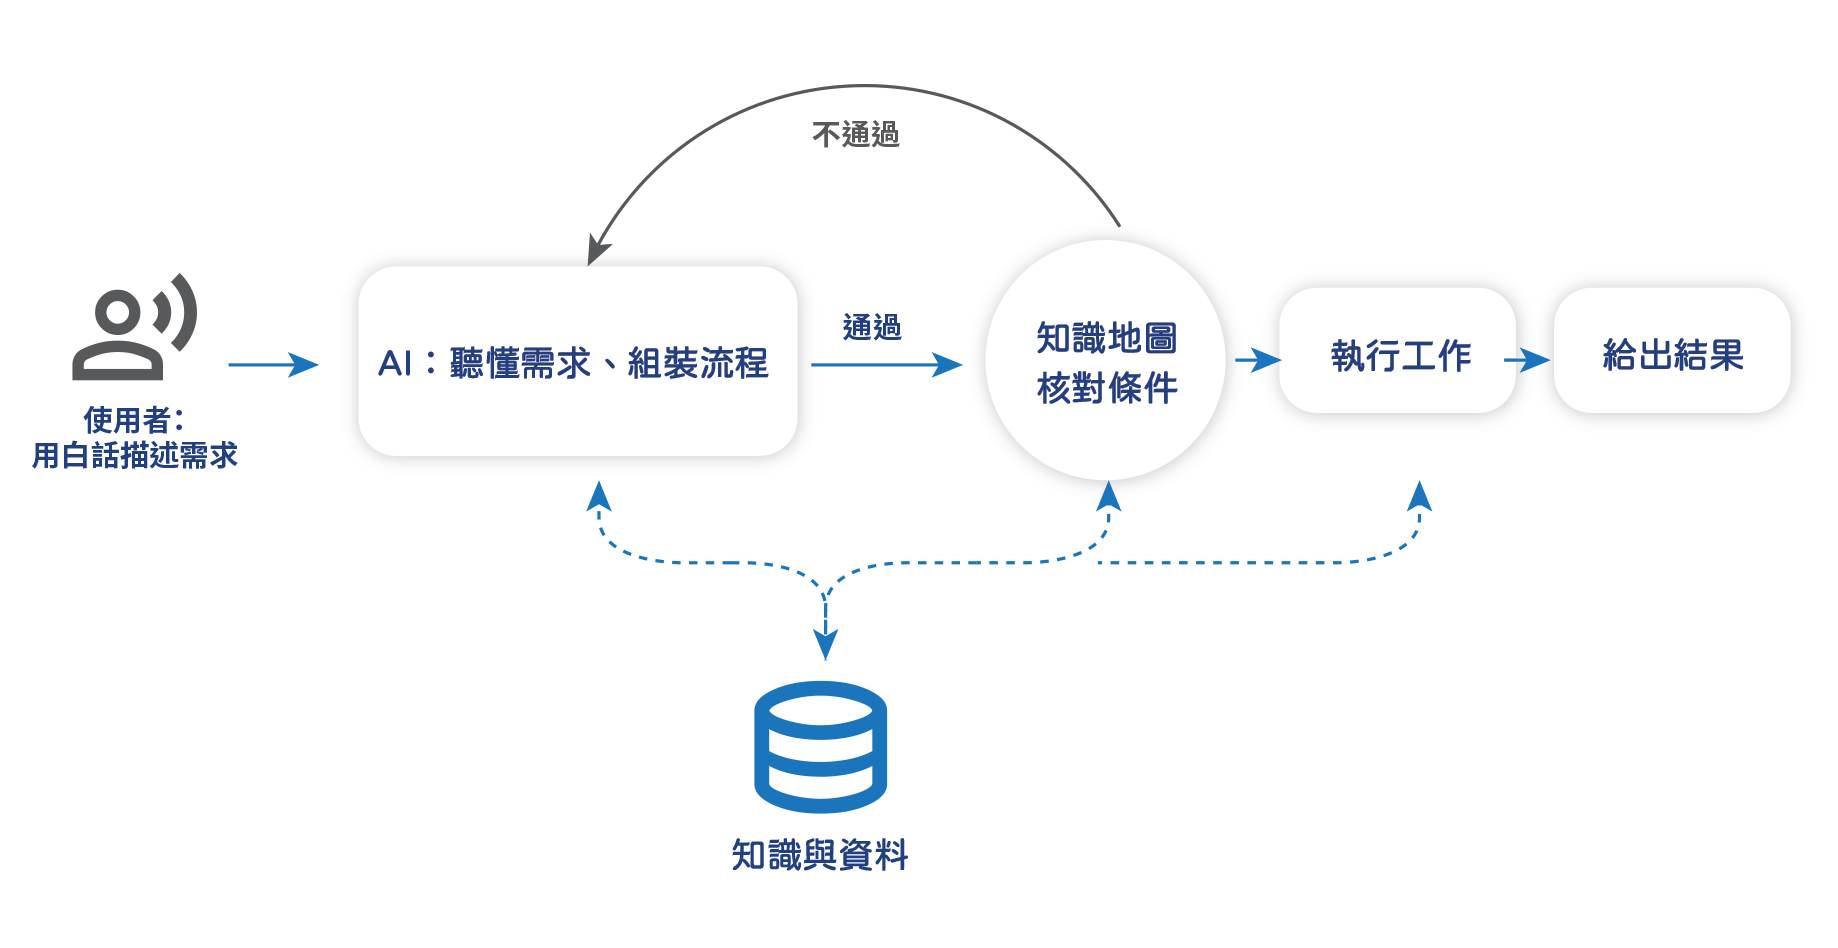
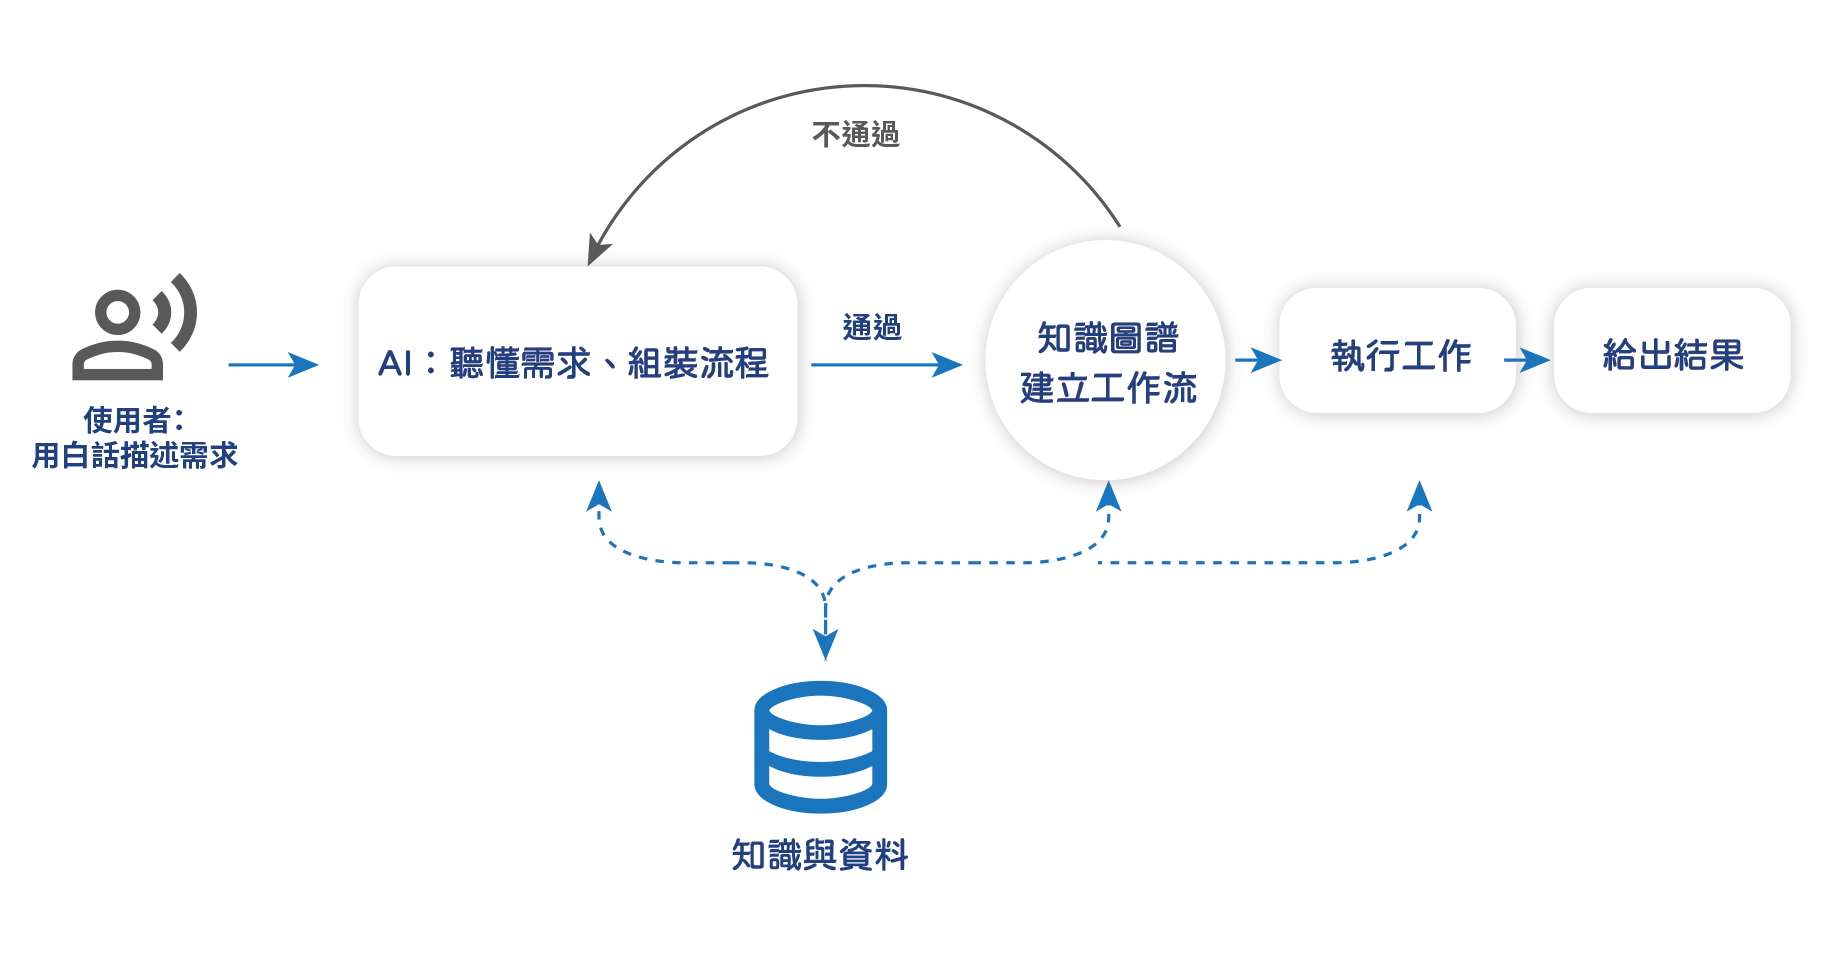
0820

diff --git a/optimus-agent.html b/optimus-agent.html
@@ -184,7 +184,7 @@
 
                         <p class="text-h6  mb-8">
                             一般聊天機器人只會一問一答；Meta Agent Workflow 打造的，是一條<strong class="highlight2">會照步驟把工作完成</strong>的 AI
-                            工作流程<br>你用白話描述需求，它就拆解成一連串步驟（理解需求 → 知識地圖核對條件 → 執行工作 →
+                            工作流程<br>你用白話描述需求，它就拆解成一連串步驟（理解需求 → 知識圖譜核對條件 → 執行工作 →
                             產出結果），<strong>先確認條件成立才動手</strong>，一步步把事情做完，例如幫旅行社算報價、幫客服查訂單並處理退換貨。
                         </p>
 
@@ -194,7 +194,7 @@
                                 <li>流程每一步都<strong>先把關、再執行</strong>，答案不亂編</li>
                                 <li>企業知識與資料貫穿「聽需求・把關・執行」全程</li>
                                 <li>要調整時用對話就能改，不必重做</li>
-                                <li>換產業只要換知識，不必重寫流程</li>
+                                <li>換產業只要換知識，不必重寫程式碼</li>
                                 <li>每個客戶的資料與權限彼此隔離</li>
                             </ul>
                             <div class="optimus-agent-img col-span-12 md:col-span-12">
@@ -218,17 +218,17 @@
 
                         <p class="text-h6 mb-8">
                             一般 AI 找資料只看「意思像不像」，遇到有明確條件的問題（例如「5 天、兩人、預算 3 萬」）容易挑錯。Ontology
-                            把企業知識整理成一張定義清楚、有關係與規則的<strong>「知識地圖」</strong>；在語意比對之外多一道核對條件，答得更準，也說得出「為什麼是這個答案」。
+                            把企業知識整理成一張定義清楚、有關係與規則的<strong>「知識圖譜」</strong>；在語意比對之外多一道核對條件，答得更準，也說得出「為什麼是這個答案」。
                         </p>
 
                         <div class="grid grid-cols-12 gap-4">
                             <ul class="text-h6 agent-list col-span-12 md:col-span-12">
-                                <li>語意比對＋知識地圖<strong>核對條件</strong>，答得更準</li>
+                                <li>語意比對＋知識圖譜<strong>核對條件</strong>，答得更準</li>
                                 <li>答案有根據、<strong>可解釋</strong>，不是黑盒子</li>
                                 <li>支援多語系，不限特定語言</li>
                             </ul>
                             <div class="optimus-agent-img col-span-12 md:col-span-12">
-                                <img src="img/agent-2.png" alt="Ontology 知識地圖">
+                                <img src="img/agent-2.png" alt="Ontology 知識圖譜">
                             </div>
                         </div>
 
@@ -300,7 +300,7 @@
             <div class="container flex flex-col gap-8">
                 <h2 class="text-white text-center"><span class="highlight">技術優勢</span></h2>
                 <p class="text-h5 text-white text-center">
-                    關鍵優勢來自「讓 AI 負責思考、讓規則負責把關」的架構——它同時解決了一般 AI
+                    關鍵優勢來自「讓 LLM負責理解、讓推論引擎負責思考」的架構——它同時解決了一般 AI
                     最痛的三件事：會亂編、很燒錢、難信任。
                 </p>
 

diff --git a/about.html b/about.html
@@ -439,21 +439,21 @@
                 <h3 class="text-h4 text-sub font-bold mb-4">核心團隊</h3>
                 <div class="team-grid">
                     <div class="team-card card-gray">
-                        <img class="team-photo" src="img/leader-alex.jpg" alt="郭承和 Alex Kuo">
+                        <img class="team-photo" src="img/team/leader-alex.jpg" alt="郭承和 Alex Kuo">
                         <div class="team-card-body">
                             <h4 class=" text-main font-bold">郭承和 Alex Kuo</h4>
                             <p class="text-h6 text-dark">董事長兼執行長</p>
                         </div>
                     </div>
                     <div class="team-card card-gray">
-                        <img class="team-photo" src="img/leader-sonia.jpg" alt="徐麗敏 Sonia Hsu">
+                        <img class="team-photo" src="img/team/leader-sonia.jpg" alt="徐麗敏 Sonia Hsu">
                         <div class="team-card-body">
                             <h4 class="text-h5 text-main font-bold">徐麗敏 Sonia Hsu</h4>
                             <p class="text-h6 text-dark">財務長</p>
                         </div>
                     </div>
                     <div class="team-card card-gray">
-                        <img class="team-photo" src="img/leader-claude2.jpg" alt="沈正中 Claude Shen">
+                        <img class="team-photo" src="img/team/leader-claude.jpg" alt="沈正中 Claude Shen">
                         <div class="team-card-body">
                             <h4 class="text-h5 text-main font-bold">沈正中 Claude Shen</h4>
                             <p class="text-h6 text-dark">技術長</p>
@@ -463,7 +463,7 @@
             </div>
 
             <div class="team-group team-group-operations">
-                <h3 class="text-h4 text-sub font-bold mb-4">營運團隊（英文姓名＋職稱）</h3>
+                <h3 class="text-h4 text-sub font-bold mb-4">營運團隊</h3>
                 <div class="team-grid">
                     <div class="team-card card-gray">
                         <div class="team-photo team-photo-placeholder" aria-label="Gary Chuang 照片待補">

diff --git a/css/custom.css b/css/custom.css
@@ -94,7 +94,7 @@
     display: grid;
     grid-template-columns: repeat(3, minmax(0, 1fr));
     /* gap: 1.5rem; */
-    gap: 2rem;
+    gap: 1rem;
     width: 85%;
     margin: 0 auto;
 }
@@ -103,7 +103,14 @@
     overflow: hidden;
     padding: 0;
     text-align: center;
-    border-bottom: 8px solid var(--c-sub);
+    /* border-bottom: 8px solid var(--c-sub); */
+    box-shadow: 0 10px 28px rgba(31, 44, 92, .14);
+    transition: transform .3s ease, box-shadow .3s ease;
+}
+
+#about .team-card:hover {
+    transform: translateY(-4px);
+    box-shadow: 0 16px 38px rgba(31, 44, 92, .2);
 }
 
 #about .team-photo {
@@ -128,15 +135,11 @@
 }
 
 #about .team-group-operations .team-grid {
-    grid-template-columns: repeat(6, minmax(0, 1fr));
+    grid-template-columns: repeat(5, minmax(0, 1fr));
 }
 
 #about .team-group-operations .team-card {
-    grid-column: span 2;
-}
-
-#about .team-group-operations .team-card:nth-child(4) {
-    grid-column: 2 / span 2;
+    grid-column: auto;
 }
 
 #about .team-group-operations .team-photo {
@@ -148,8 +151,7 @@
         grid-template-columns: 1fr;
     }
 
-    #about .team-group-operations .team-card,
-    #about .team-group-operations .team-card:nth-child(4) {
+    #about .team-group-operations .team-card {
         grid-column: auto;
     }
 }

diff --git a/agent-idp.html b/agent-idp.html
@@ -370,7 +370,7 @@
 
                             <div class="case-scroll">
                                 <article class="case-card">
-                                    <img src="img/altos.jpg" alt="Altos BrainSphere™ GB10 F1">
+                                    <img src="img/hardware/altos.jpg" alt="Altos BrainSphere™ GB10 F1">
                                     <div class="case-card-content">
                                         <h3 class="text-dark">Altos BrainSphere™ GB10 F1<br>
                                             <p class="text-h5">Superchip
